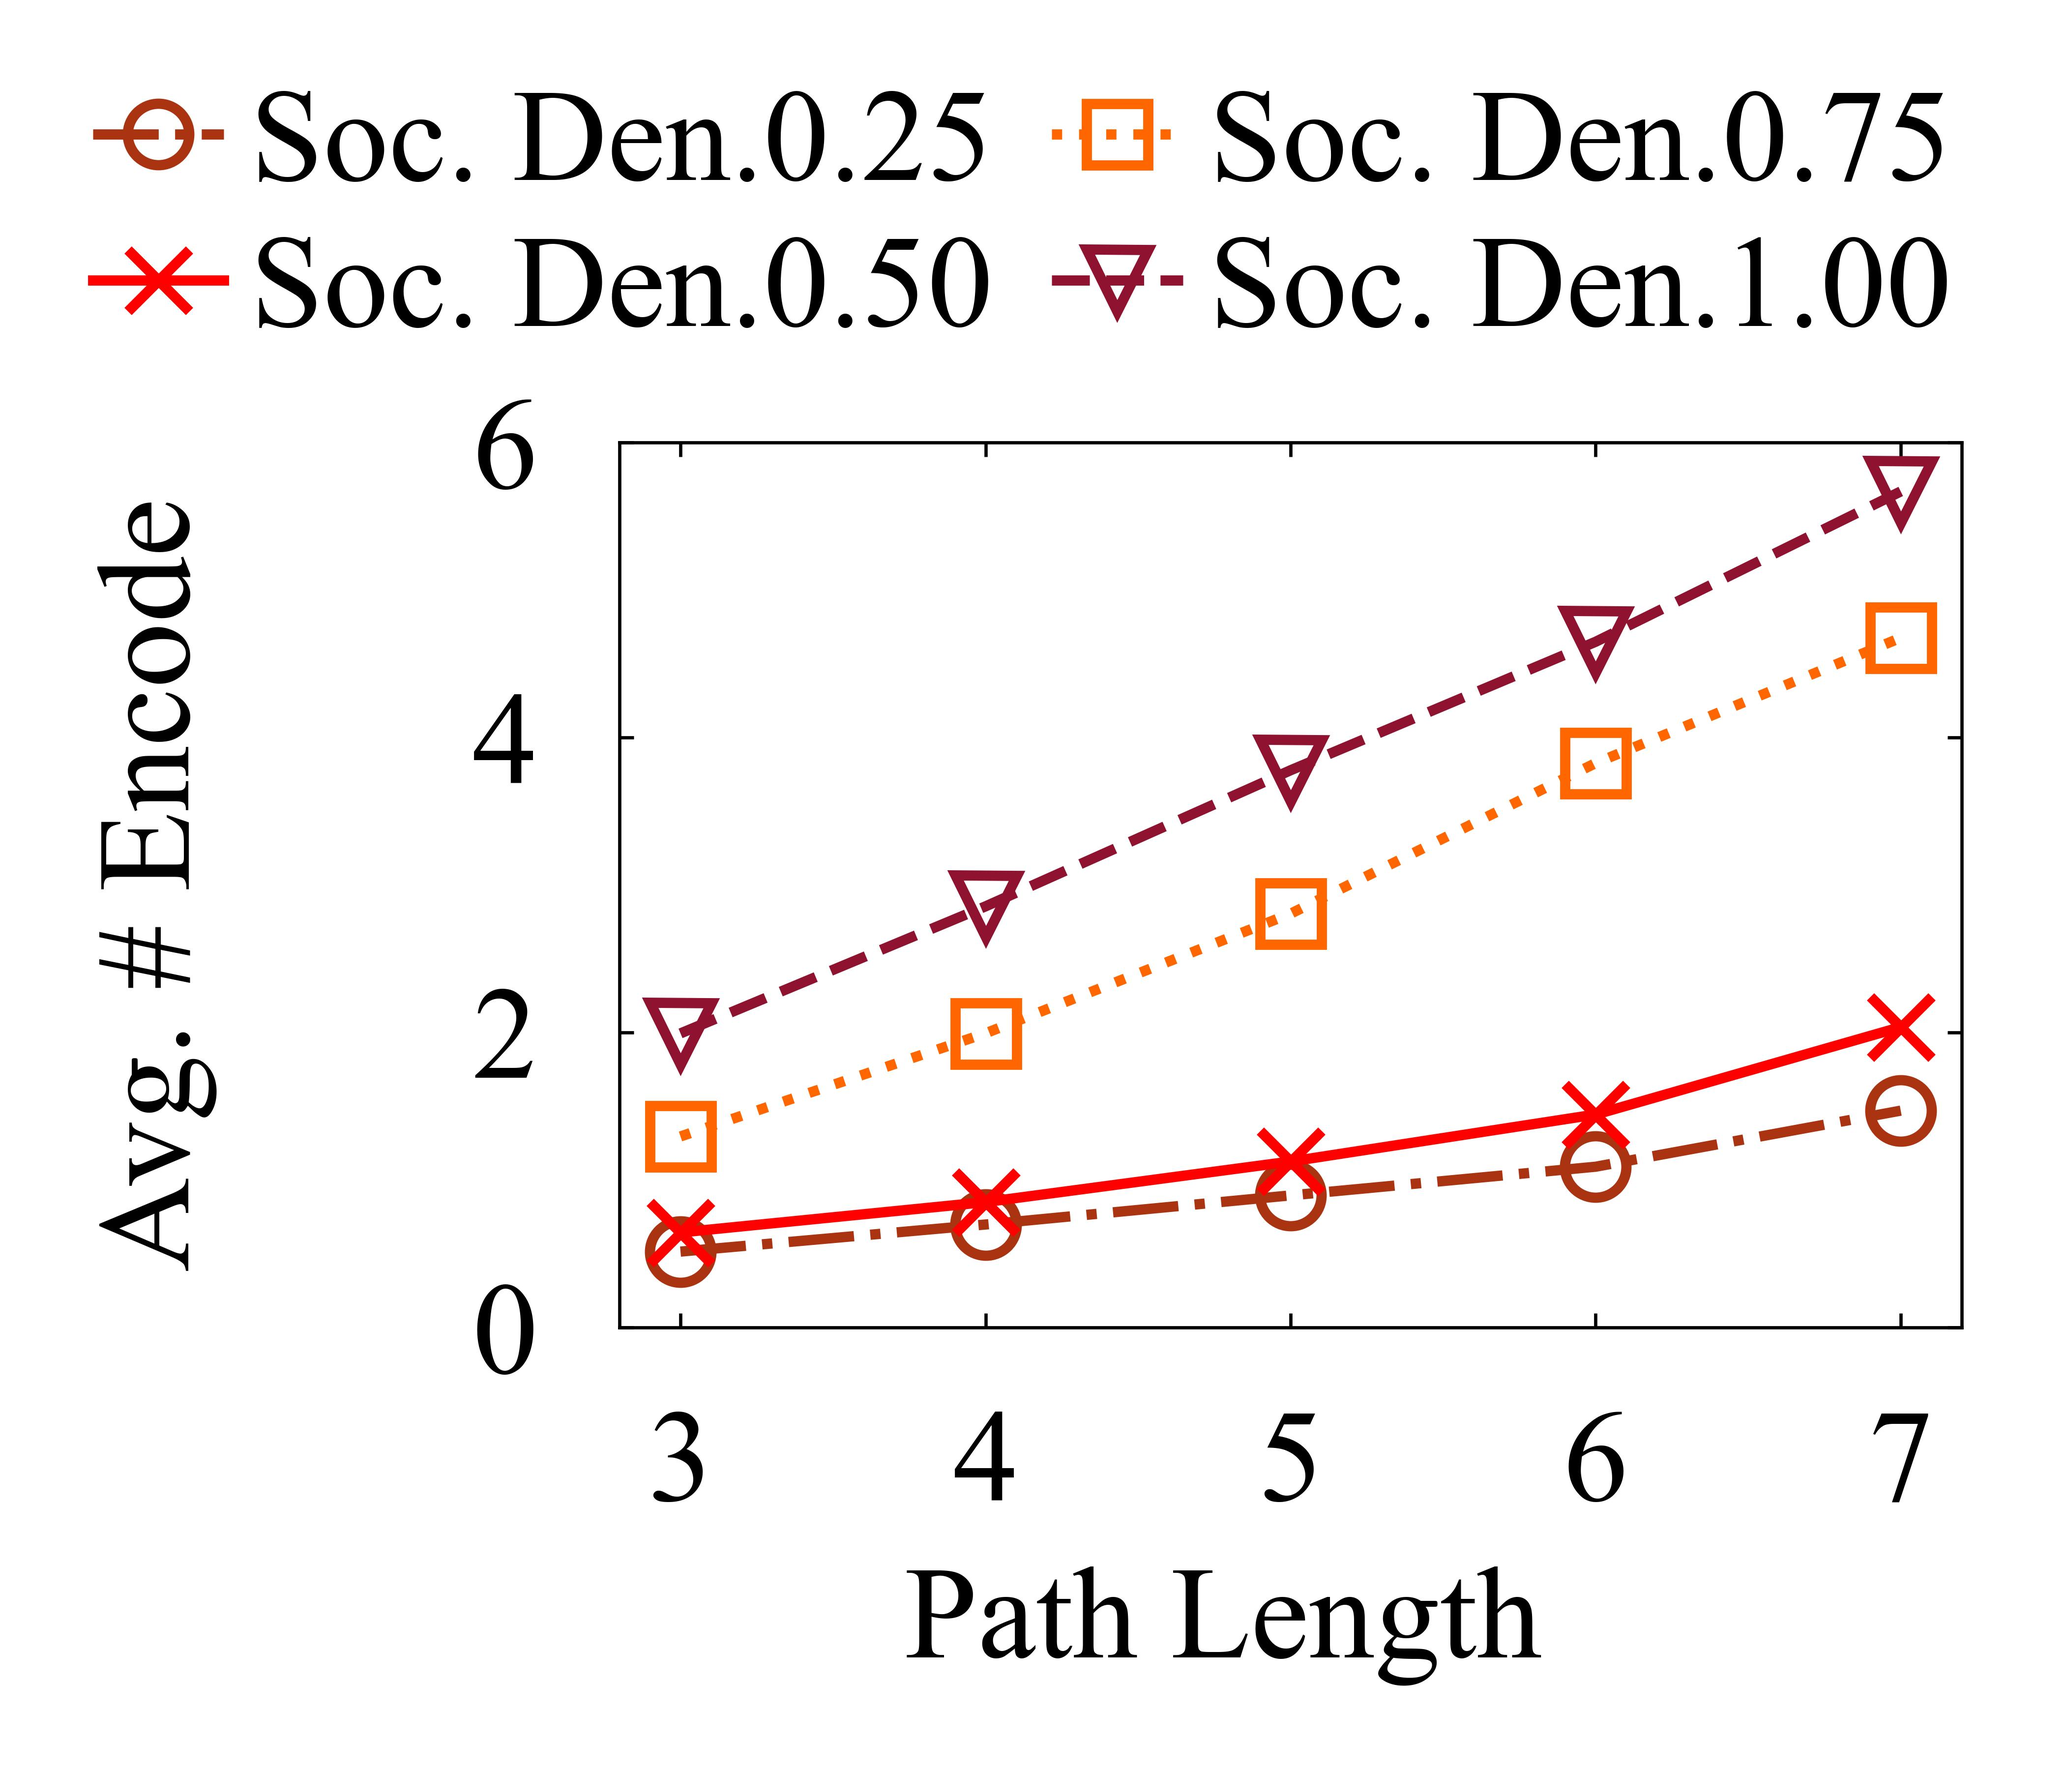
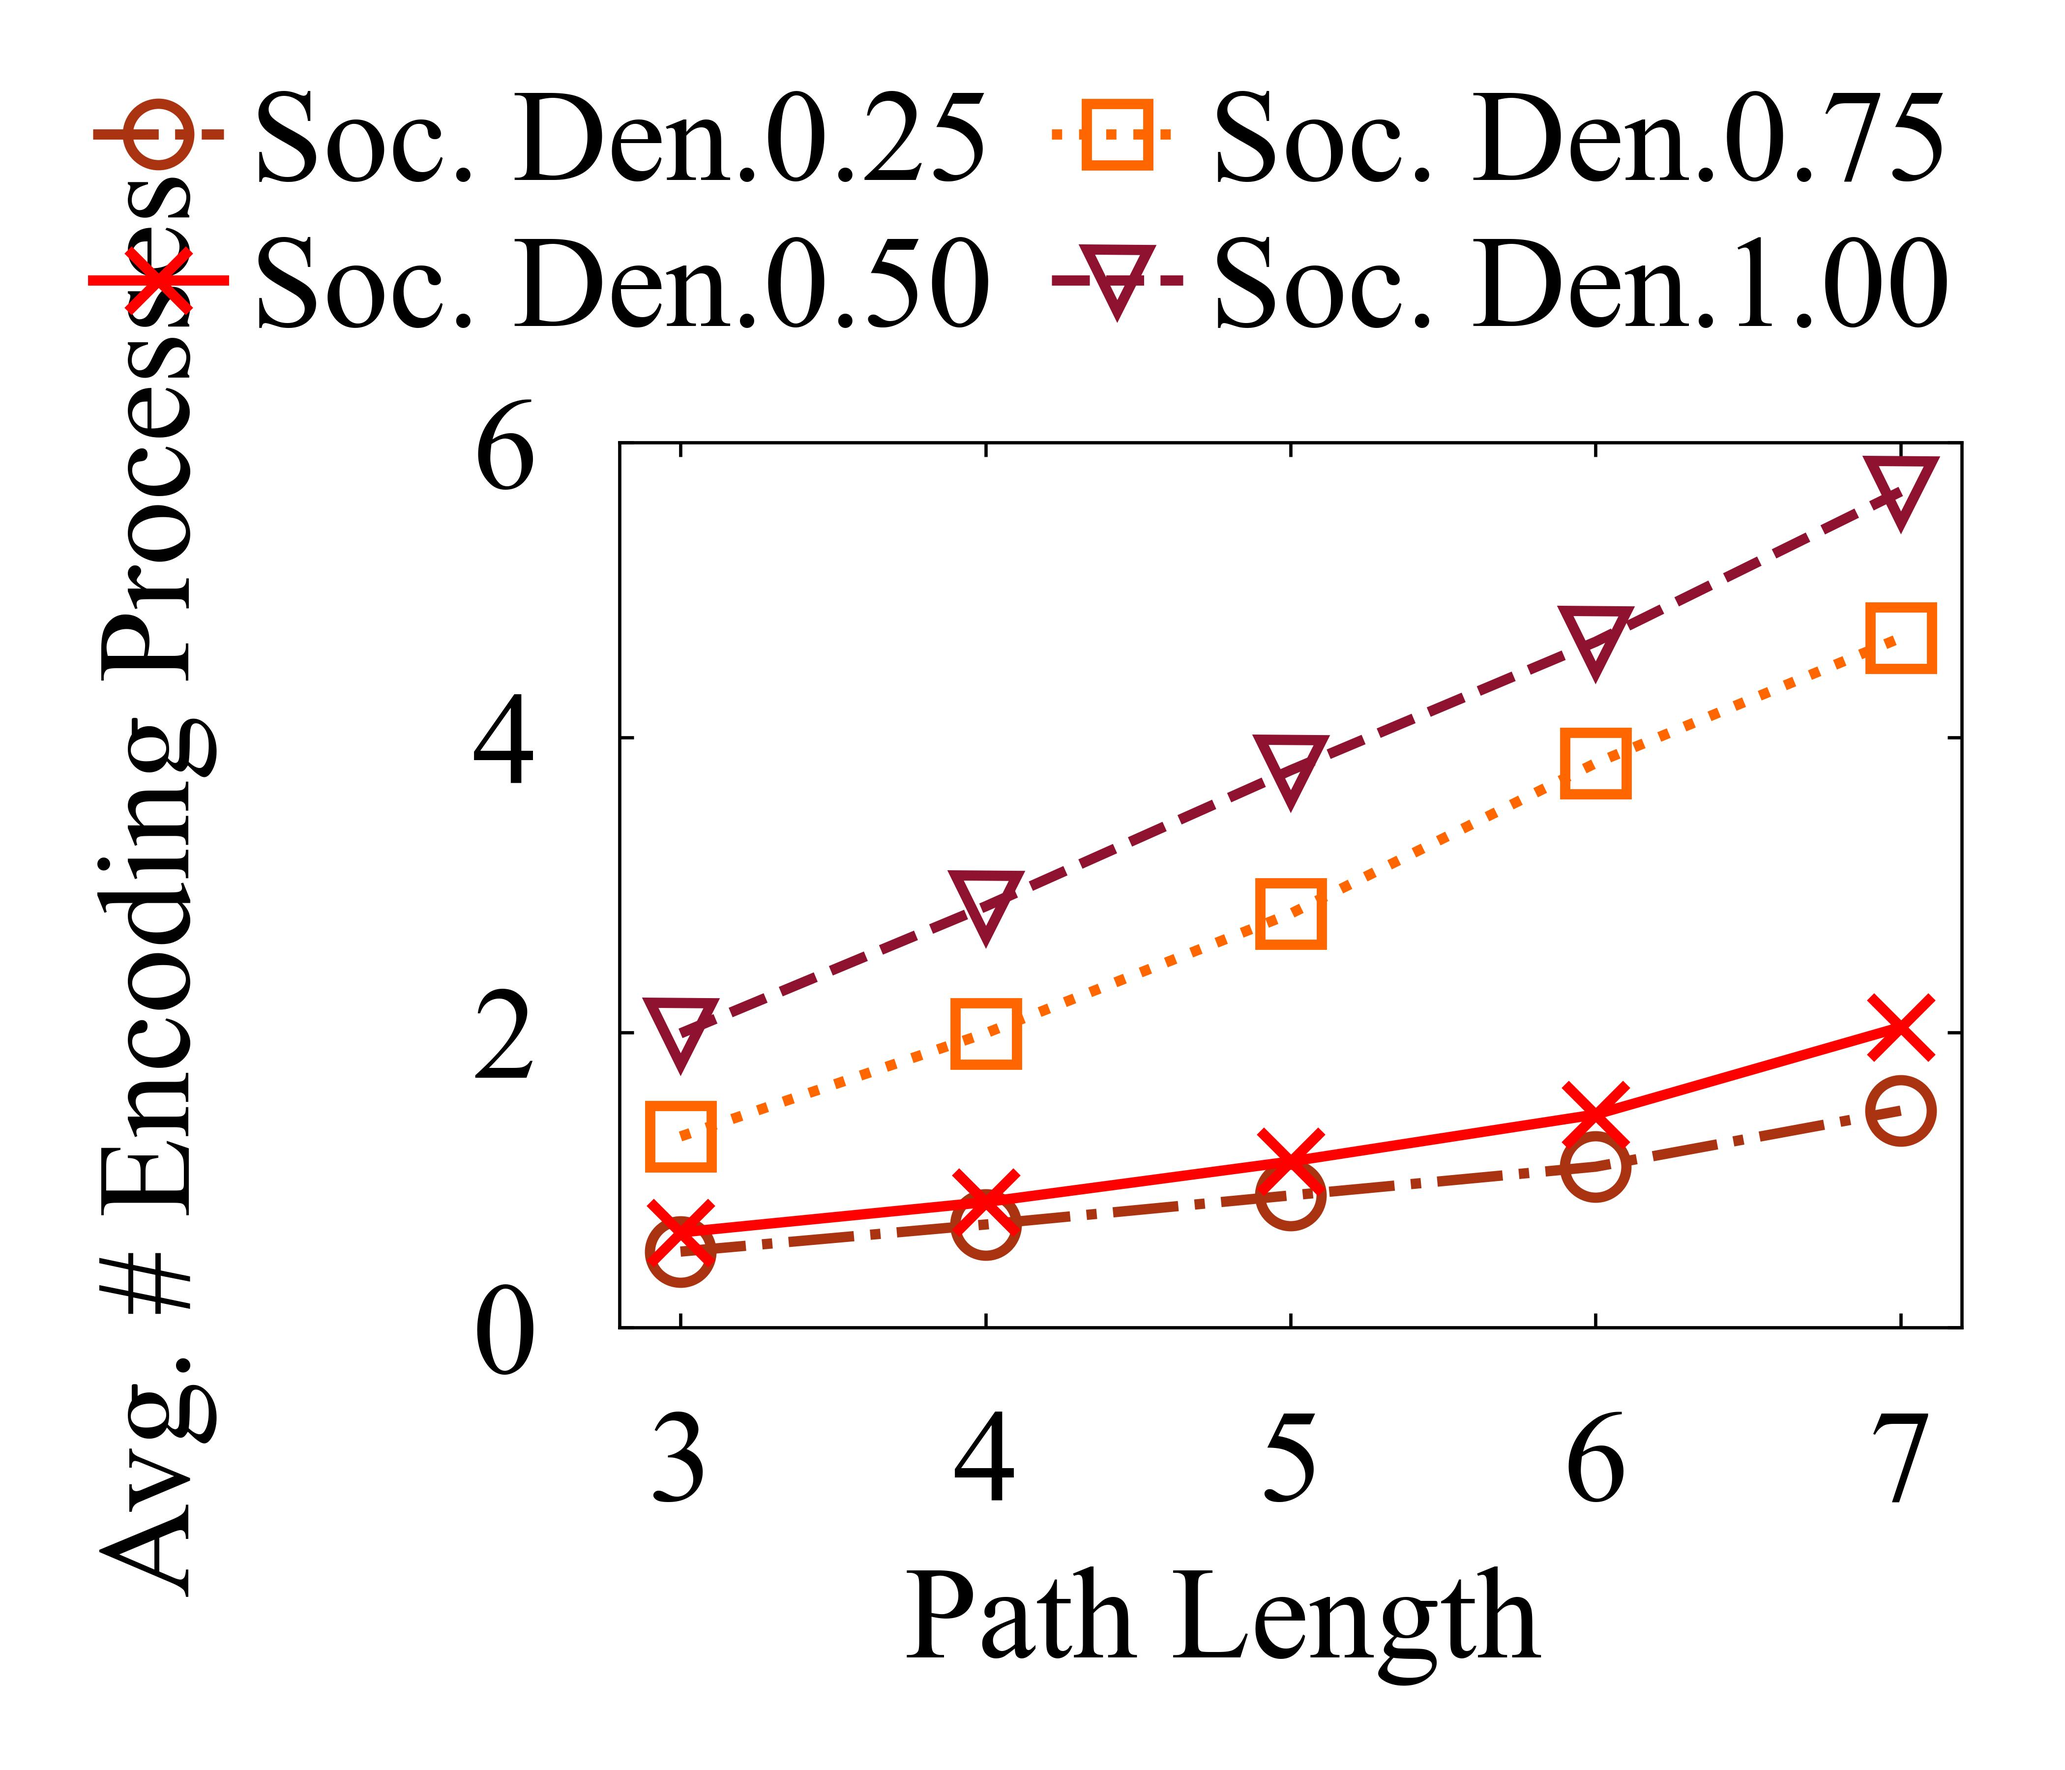
update path_length_encode_cnt label

Changed region(s): [[0.0312, 0.0933, 0.1248, 0.7467], [0.0312, 0.7778, 0.1248, 0.9022]]

diff --git a/use/min_fidelity_throughputs/main.cpp b/use/min_fidelity_throughputs/main.cpp
@@ -16,8 +16,18 @@ int main(){
 		}
 		t++;
 	}
+	vector<double> sum(5);
+	for(int g=0;g<t;g++){
+		for(int i=0;i<3;i++){
+			sum[i] += (y[g][3] - y[g][i]) * 1.0 / y[g][3] * 100;
+		}
+	}
 	for(int i=0;i<3;i++){
-		cout<<((y[2][3] - y[2][i]) * 1.0 / y[2][3]) * 100<<"\t";
+		cout<<(y[2][3] - y[2][i]) * 1.0 / y[2][3] * 100<<" ";
+	}
+	cout<<endl;
+	for(int i=0;i<3;i++){
+		cout<<sum[i] / t<<" ";
 	}
 	cout<<endl;
 	return 0;

diff --git a/use/path_length_encode_cnt/ChartGenerator.py b/use/path_length_encode_cnt/ChartGenerator.py
@@ -218,6 +218,6 @@ if __name__ == "__main__":
 
 
     Xlabel = "Path Length"
-    Ylabel = "Avg. # Encode"
+    Ylabel = "Avg. # Encoding Processes"
     dataFileName = "path_length_encode_cnt.ans"
     ChartGenerator(dataFileName, Ylabel, Xlabel)
